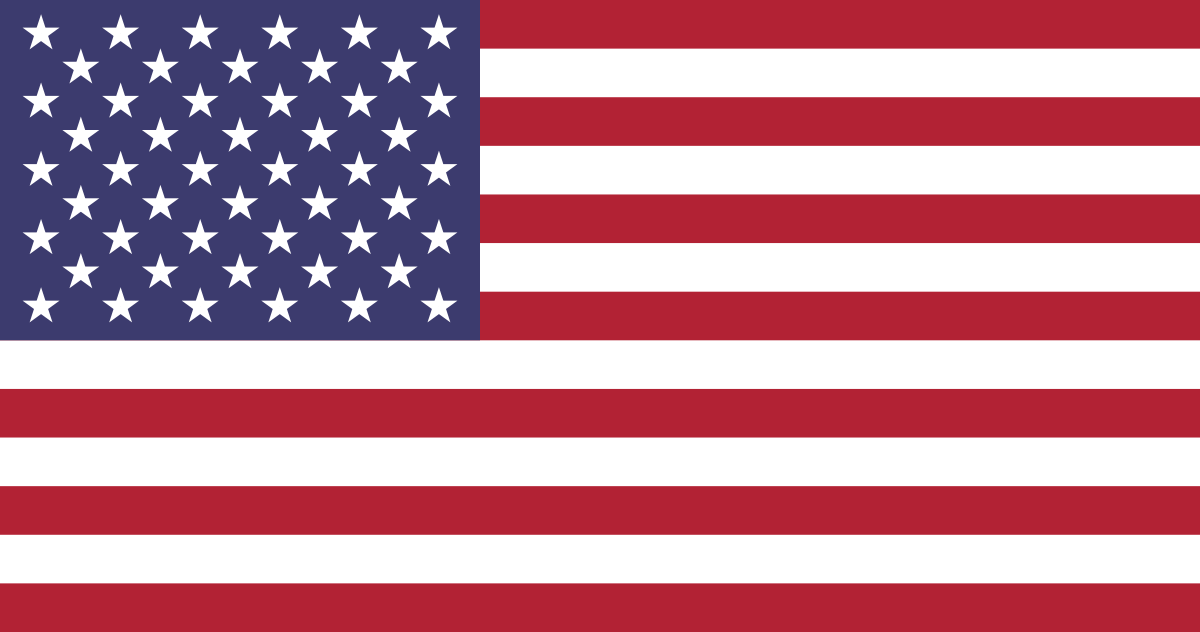
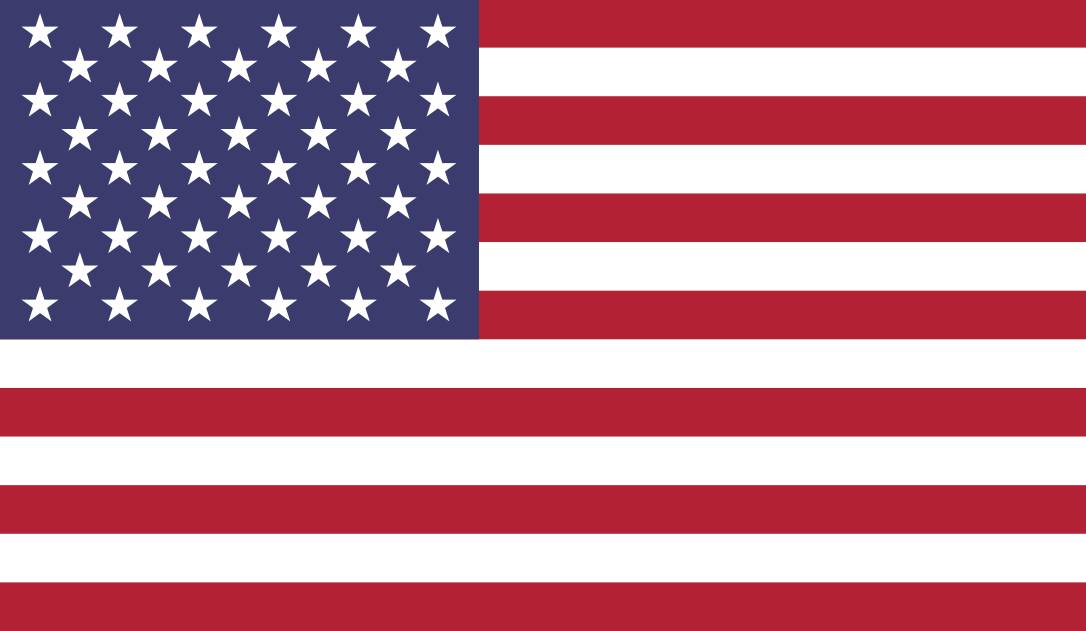
Update flag, make width smaller, stack on top of each other when mobile

diff --git a/app/assets/stylesheets/navbar.scss b/app/assets/stylesheets/navbar.scss
@@ -1,11 +1,15 @@
 .account-nav {
   background-color: $rich-honey-black;
-  padding: 10px 30px;
+  padding: 10px;
 
   a,
   span {
     color: $white;
   }
+}
+
+.right-side-container {
+  text-align: right;
 }
 
 .nav-links {
@@ -94,5 +98,9 @@
 @media screen and (max-width: 600px){
   .logo-container {
     text-align: center;
+  }
+
+  .right-side-container {
+    text-align: left;
   }
 }
